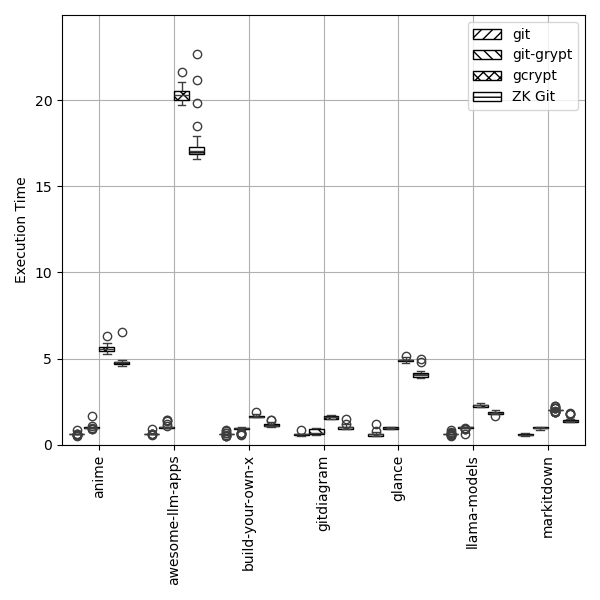
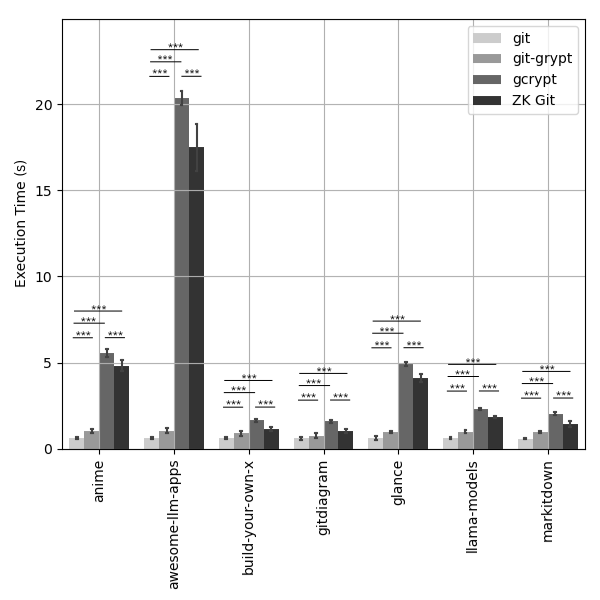
now also generates bar plots

diff --git a/git_tester.py b/git_tester.py
@@ -111,6 +111,80 @@ def save_round_data(repo_dir, remote, round_entry):
         json.dump(round_entry, f, indent=4)
 
 
+def generate_bar_plots(data):
+    """Generates bar plots with standard deviation error bars for each metric."""
+    if not data:
+        LOGGER.warning(config.ERROR_NO_BOXPLOT)
+        return
+
+    records = []
+    for repo_dir, remotes in data.items():
+        for remote, entries in remotes.items():
+            for entry in entries:
+                for metric in config.STATS:
+                    if metric in entry:
+                        records.append({
+                            config.STATS_REPODIR: os.path.basename(repo_dir),
+                            config.STATS_REMOTE: remote,
+                            config.STATS_METRIC: metric,
+                            config.STATS_VALUE: entry[metric]
+                        })
+
+    df = pd.DataFrame(records)
+
+    if df.empty:
+        LOGGER.warning(config.ERROR_NO_METRICS)
+        return
+
+    for metric in config.STATS:
+        metric_df = df[df[config.STATS_METRIC] == metric]
+        if metric_df.empty:
+            continue
+
+        plt.figure(figsize=(6, 6))
+        gray_palette = sns.color_palette("gray",n_colors=metric_df[config.STATS_REMOTE].nunique())[::-1]
+
+        sns.barplot(
+            data=metric_df,
+            x=config.STATS_REPODIR,
+            y=config.STATS_VALUE,
+            hue=config.STATS_REMOTE,
+            errorbar="sd",
+            palette=gray_palette,
+            capsize=0.1,
+            errwidth=1.5
+        )
+
+        handles, labels = plt.gca().get_legend_handles_labels()
+        label_map = {
+            "gitremote": "git",
+            "gitcryptremote": "git-grypt",
+            "gcryptremote": "gcrypt",
+            "zkgitremote": "ZK Git"
+        }
+        new_labels = [label_map.get(label, label) for label in labels]
+        plt.legend(handles=handles, labels=new_labels, title=None)
+
+        plt.title("")
+        plt.xlabel("")
+        plt.ylabel(metric.replace('_', ' ').title())
+        if metric == config.STATS_AVG_CPU:
+            plt.ylim(bottom=0, top=200)
+        else:
+            y_max = metric_df[config.STATS_VALUE].max()
+            plt.ylim(bottom=0, top=y_max * 1.1)
+
+        plt.grid(True)
+        plt.xticks(rotation=90)
+        plt.tight_layout()
+
+        timestamp = datetime.now().strftime(config.DATETIME_FORMAT)
+        filename = f"outputs/{timestamp}_{metric}_barplot.png"
+        plt.savefig(filename)
+        LOGGER.info(config.LOG_BOXPLOT, filename)
+        plt.show()
+
+
 def generate_box_plots(data):
     """Generates boxplots for each metric, grouped by repo_dir and remote."""
     if not data:
@@ -144,23 +218,17 @@ def generate_box_plots(data):
         plt.figure(figsize=(6, 6))
         sns.boxplot(data=metric_df, x=config.STATS_REPODIR,
                     y=config.STATS_VALUE, hue=config.STATS_REMOTE)
-        
-        x_order = metric_df[config.STATS_REPODIR].unique()
+
         hue_order = metric_df[config.STATS_REMOTE].unique()
-        
-        # Total number of hue levels (remotes) per repo
         num_hue = len(hue_order)
         ax = plt.gca()
 
-        # Get hatch styles and create a hatch map for consistent styling
         hatch_styles = ['///', '\\\\\\', 'xxx', '---']
         unique_remotes = metric_df[config.STATS_REMOTE].unique()
         hatch_map = {remote: hatch_styles[i % len(hatch_styles)] for i, remote in enumerate(unique_remotes)}
 
-        # Extract the legend mapping (label to artist)
         handles, labels = ax.get_legend_handles_labels()
 
-        # Create reverse legend map to match labels to remotes
         label_to_remote = {v: k for k, v in {
             "gitremote": "git",
             "gitcryptremote": "git-grypt",
@@ -168,8 +236,6 @@ def generate_box_plots(data):
             "zkgitremote": "ZK Git"
         }.items()}
 
-        # Fix inconsistent hatch styles by examining each patch’s color (which encodes the hue)
-        # Create a mapping from facecolor to hatch
         color_to_remote = {
             handle.get_facecolor(): label for handle, label in zip(handles, labels)
         }
@@ -177,19 +243,18 @@ def generate_box_plots(data):
             label: hatch_map.get(label, '') for label in labels
         }
 
-        # Apply hatch pattern based on the color (which maps to remote)
         for patch in ax.patches:
             facecolor = patch.get_facecolor()
             remote_label = color_to_remote.get(facecolor)
             if remote_label:
                 hatch = hatch_map.get(remote_label, '')
-                patch.set_facecolor('white') 
+                patch.set_facecolor('white')
                 patch.set_hatch(hatch)
                 patch.set_edgecolor('black')
-        
+
 
         handles, labels = plt.gca().get_legend_handles_labels()
-        
+
         label_map = {
             "gitremote": "git",
             "gitcryptremote": "git-grypt",
@@ -213,41 +278,6 @@ def generate_box_plots(data):
 
         timestamp = datetime.now().strftime(config.DATETIME_FORMAT)
         filename = f"outputs/{timestamp}_{metric}_comparison.png"
-        plt.savefig(filename)
-        LOGGER.info(config.LOG_BOXPLOT, filename)
-        plt.show()
-
-        # Concentated boxplots
-        remote_palette = {
-            "gitremote": "#1f77b4",       # blue
-            "gitcryptremote": "#ff7f0e",  # orange
-            "gcryptremote": "#2ca02c",    # green
-            "zkgitremote": "#d62728"      # red
-        }
-        plt.figure(figsize=(2, 6))
-        sns.boxplot(data=metric_df, hue=config.STATS_REMOTE,
-                    y=config.STATS_VALUE, legend=False)
-
-        handles, labels = plt.gca().get_legend_handles_labels()
-        label_map = {
-            "gitremote": "git",
-            "gitcryptremote": "git-crypt",
-            "gcryptremote": "gcrypt",
-            "zkgitremote": "ZK Git"
-        }
-        new_xticklabels = [label_map.get(t.get_text(), t.get_text()) for t in plt.gca().get_xticklabels()]
-        plt.gca().set_xticklabels(new_xticklabels)
-
-        plt.title("")
-        plt.xlabel("")
-        plt.ylabel(metric.replace('_', ' ').title())
-        plt.ylim(bottom=0)
-        plt.xticks(rotation=90)
-        plt.grid(True)
-        plt.tight_layout()
-
-        timestamp = datetime.now().strftime(config.DATETIME_FORMAT)
-        filename = f"outputs/{timestamp}_{metric}_combined_comparison.png"
         plt.savefig(filename)
         LOGGER.info(config.LOG_BOXPLOT, filename)
         plt.show()
@@ -441,8 +471,8 @@ def monitor_memory(pids, max_memory_usage, process):
     while process.poll() is None:
         max_memory_usage[0] = max(max_memory_usage[0], get_memory_usage(pids))
     return max_memory_usage[0]
- 
- 
+
+
 def monitor_cpu(pids, tot_cpu_usage, rounds, process):
     """Monitors the CPU usage in a separate thread."""
     while process.poll() is None:
@@ -476,8 +506,8 @@ def monitor_process(process, label=config.LABEL_PROCESS):
     process.wait()
 
     return max_memory_usage[0], tot_cpu_usage[0] / rounds[0] if rounds[0] > 0 else 0
- 
-          
+
+
 @measure_performance
 def git_push(repo_dir, remote, branch, i):
     """Performs a git push in the specified directory."""
@@ -487,7 +517,7 @@ def git_push(repo_dir, remote, branch, i):
 
     try:
         if remote.lower() == config.GIT_CRYPT_REMOTE:
-            os.chdir(repo_dir + "_gitcrypt")            
+            os.chdir(repo_dir + "_gitcrypt")
         else:
             os.chdir(repo_dir)
 
@@ -541,7 +571,6 @@ def calculate_statistics(data):
     os.chdir(os.path.dirname(os.path.abspath(__file__)))
     with open(filename, config.FILE_WRITE, encoding=config.FILE_UTF8) as file:
 
-        # === New: collect global (cross-repo) metric values per remote ===
         global_remote_data = {metric: {} for metric in config.STATS}
         for repo_dir, remotes in data.items():
             for remote, entries in remotes.items():
@@ -549,7 +578,7 @@ def calculate_statistics(data):
                     values = [entry[metric] for entry in entries if metric in entry]
                     if values:
                         global_remote_data[metric].setdefault(remote, []).extend(values)
-        
+
         for repo_dir, remotes in data.items():
             LOGGER.info(config.LOG_STATS_REPO, os.path.basename(repo_dir))
             file.write(f"\nStatistics for Repository: {os.path.basename(repo_dir)}\n")
@@ -647,7 +676,8 @@ def calculate_statistics(data):
             anova_input = list(remote_values.values())
             result = stats.f_oneway(*anova_input)
             file.write(f"ANOVA for {metric}: F = {result.statistic:.2f}, p = {result.pvalue:.8f}\n")
-            LOGGER.info(f"ANOVA for {metric}: F = {result.statistic:.2f}, p = {result.pvalue:.8f}\n")
+            LOGGER.info(f"ANOVA for {metric}: F = {result.statistic:.2f}, "
+                        + "p = {result.pvalue:.8f}\n")
 
         file.write("\n--- Global Pairwise T-Tests ---\n")
         for metric, remote_values in global_remote_data.items():
@@ -722,7 +752,8 @@ def main():
                 time.sleep(2)
 
     calculate_statistics(performance_data)
-    generate_box_plots(performance_data)
+    generate_bar_plots(performance_data)
+    #generate_box_plots(performance_data)
     delete_tmp_directory_contents()
 
 if __name__ == "__main__":
